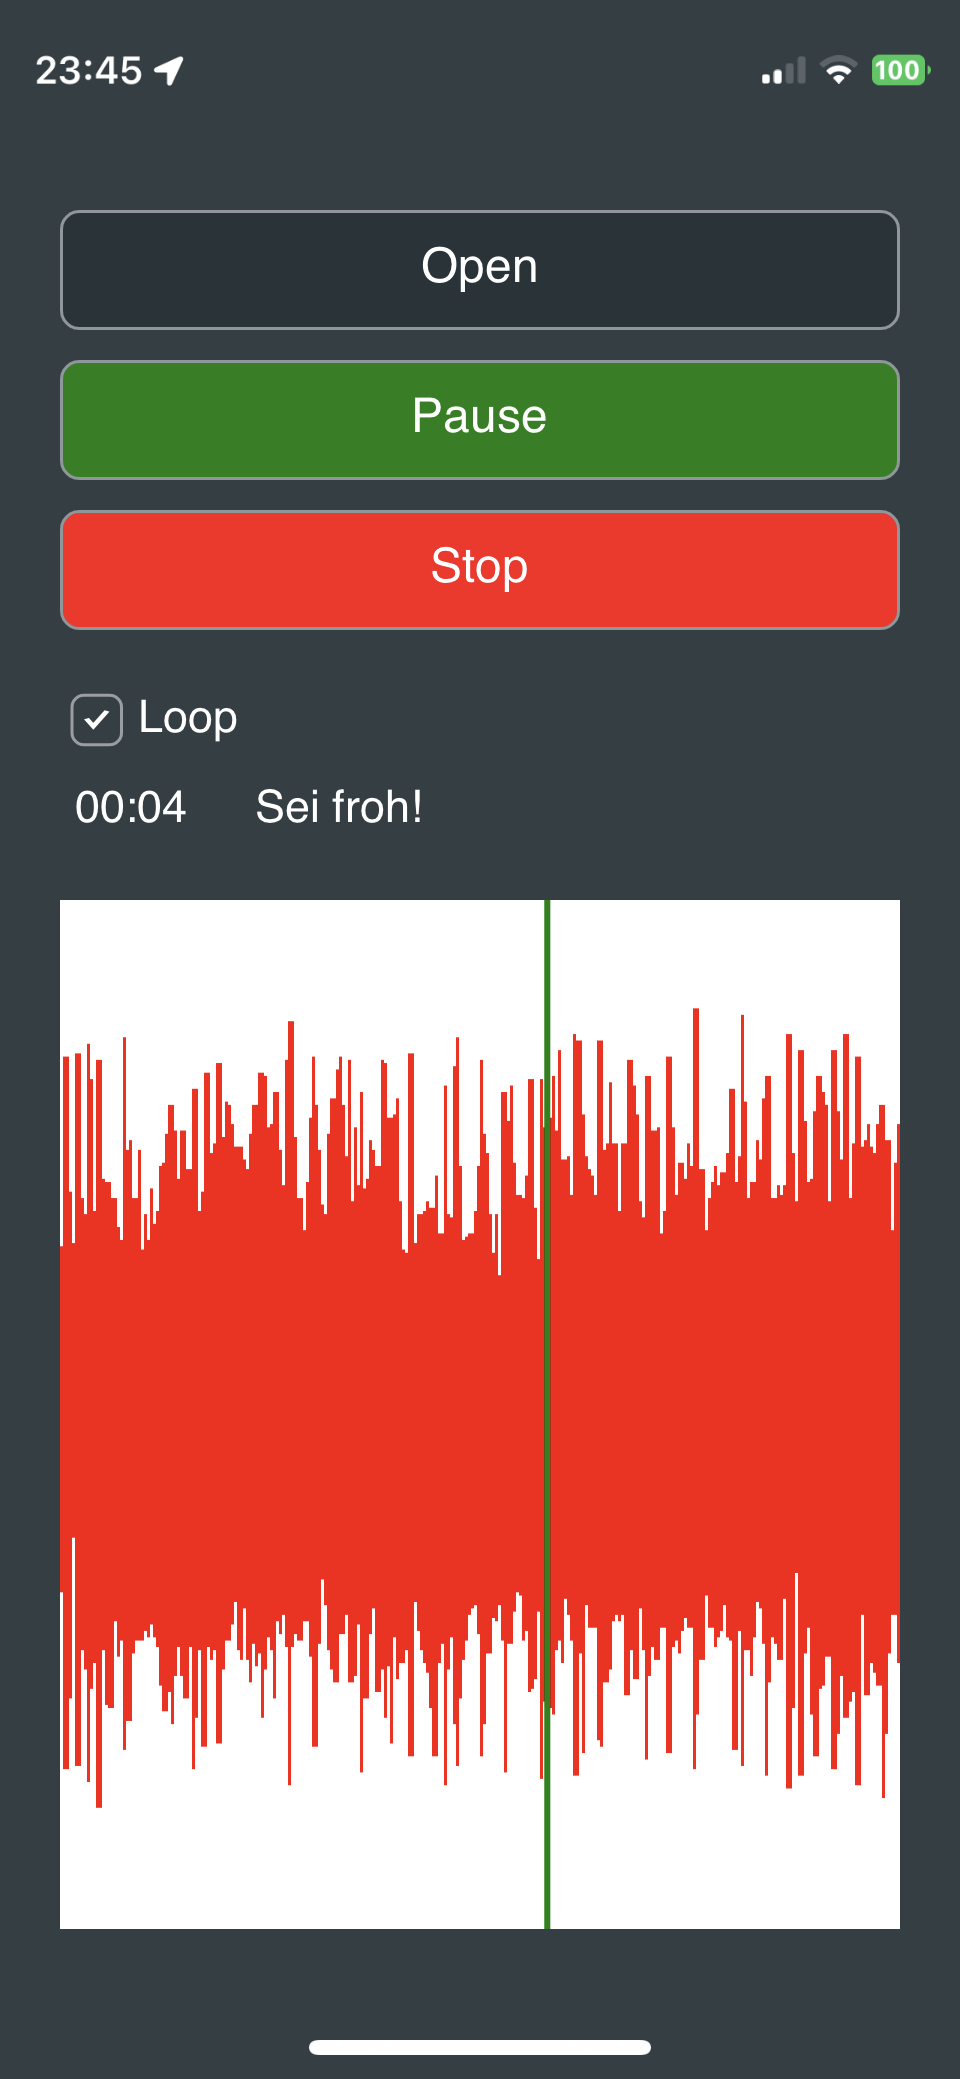
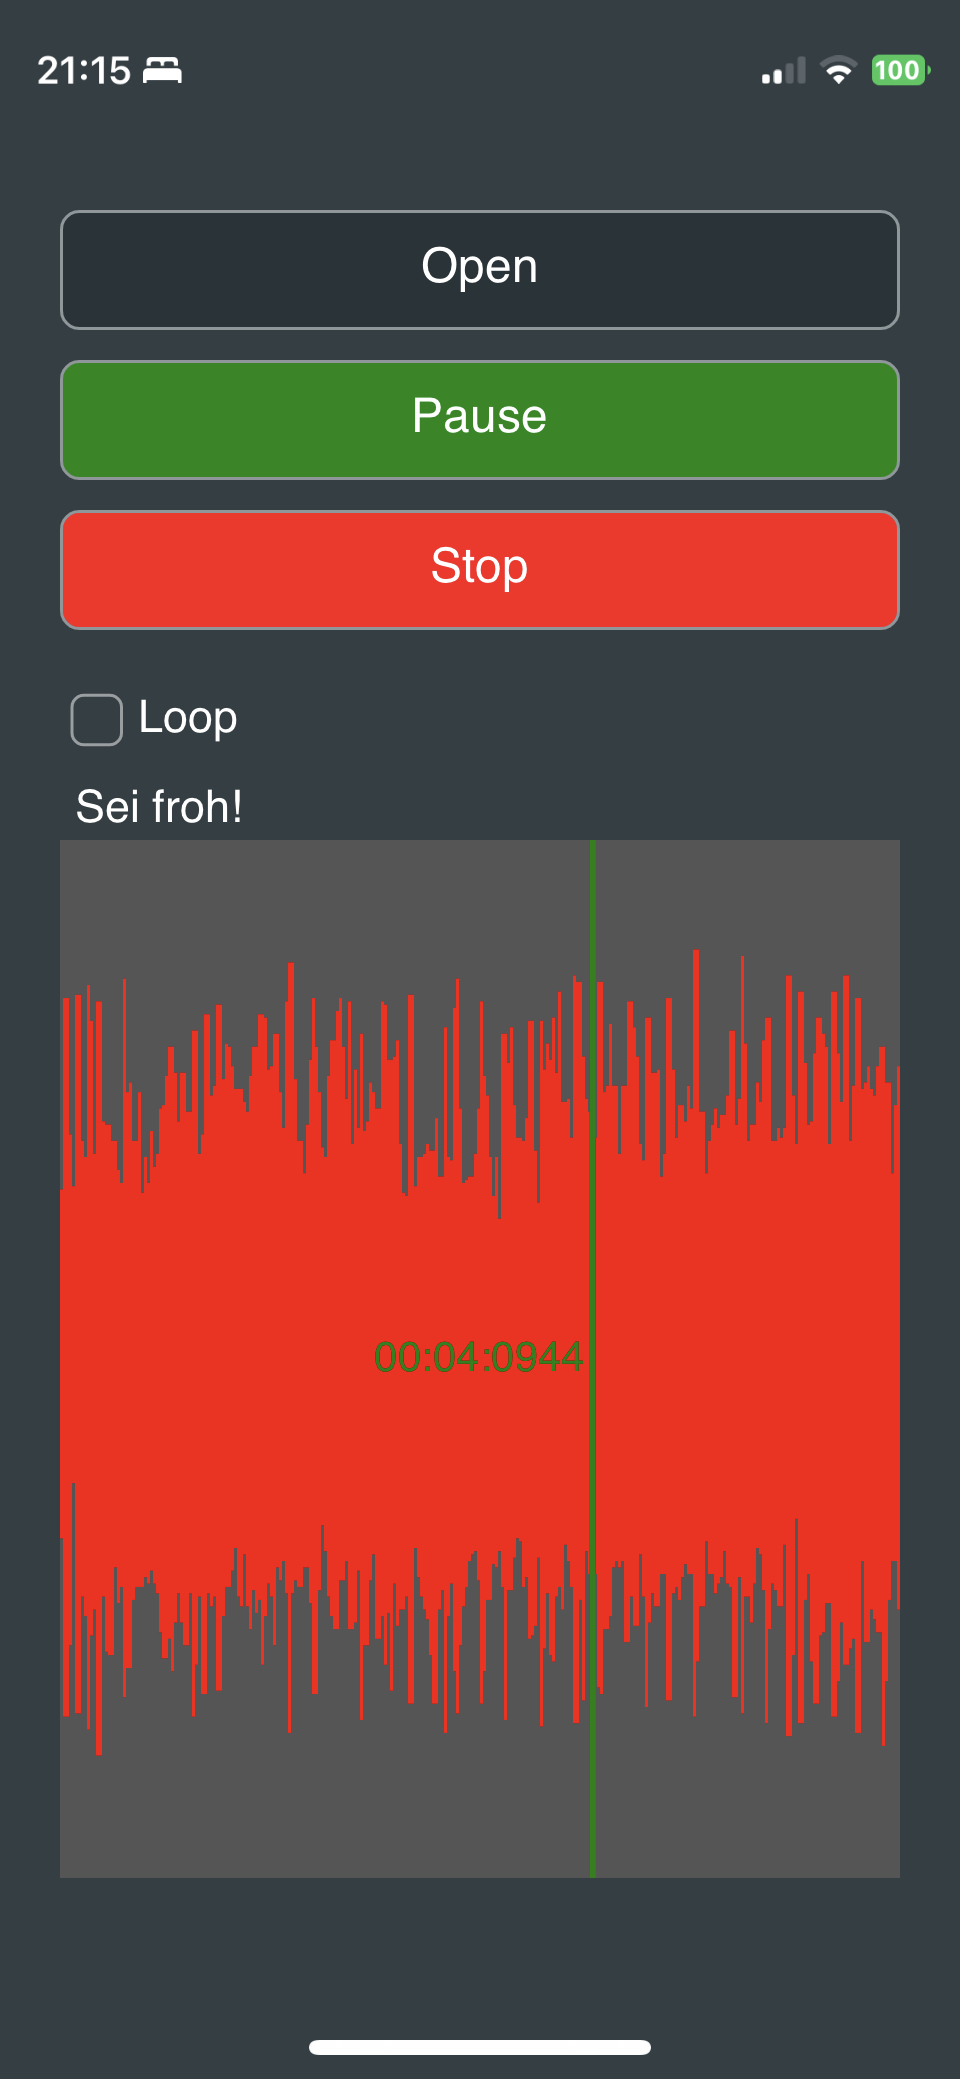
Jump to time code on click on wave form

Changed region(s): [[0.0625, 0.3694, 0.9375, 0.9543], [0.0625, 0.0308, 0.1875, 0.0616]]

diff --git a/Source/SimplePositionOverlay.h b/Source/SimplePositionOverlay.h
@@ -16,11 +16,9 @@ class SimplePositionOverlay : public juce::Component,
                               private juce::Timer
 {
 public:
-    SimplePositionOverlay (const juce::AudioTransportSource& transportSourceToUse)
+    SimplePositionOverlay (juce::AudioTransportSource& transportSourceToUse)
        : transportSource (transportSourceToUse)
     {
-        addAndMakeVisible (&currentPositionLabel);
-        currentPositionLabel.setText ("Stopped", juce::dontSendNotification);
         startTimer (40);
     }
 
@@ -41,7 +39,18 @@ public:
     }
     
     
+    void mouseDown (const juce::MouseEvent& event) override
+    {
+        auto duration = transportSource.getLengthInSeconds();
 
+        if (duration > 0.0)
+        {
+            auto clickPosition = event.position.x;
+            auto audioPosition = (clickPosition / (float) getWidth()) * duration;
+
+            transportSource.setPosition (audioPosition);
+        }
+    }
 
 private:
     void timerCallback() override
@@ -59,12 +68,11 @@ private:
         }
         else
         {
-            currentPositionLabel.setText ("Stopped", juce::dontSendNotification);
+            positionString = "Stopped";
         }
     }
 
-    const juce::AudioTransportSource& transportSource;
-    juce::Label currentPositionLabel;
+    juce::AudioTransportSource& transportSource;
     juce::String positionString;
     JUCE_DECLARE_NON_COPYABLE_WITH_LEAK_DETECTOR (SimplePositionOverlay)
 };
